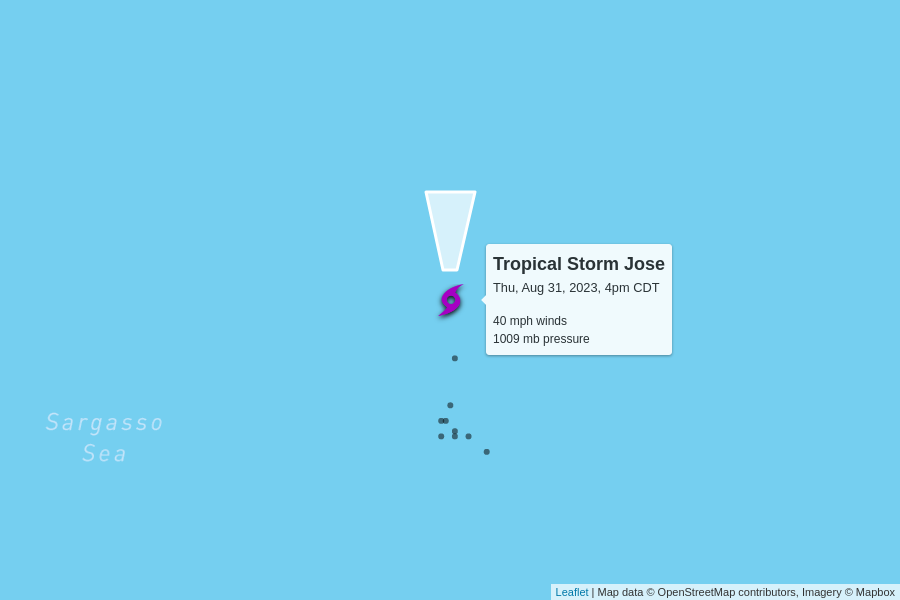
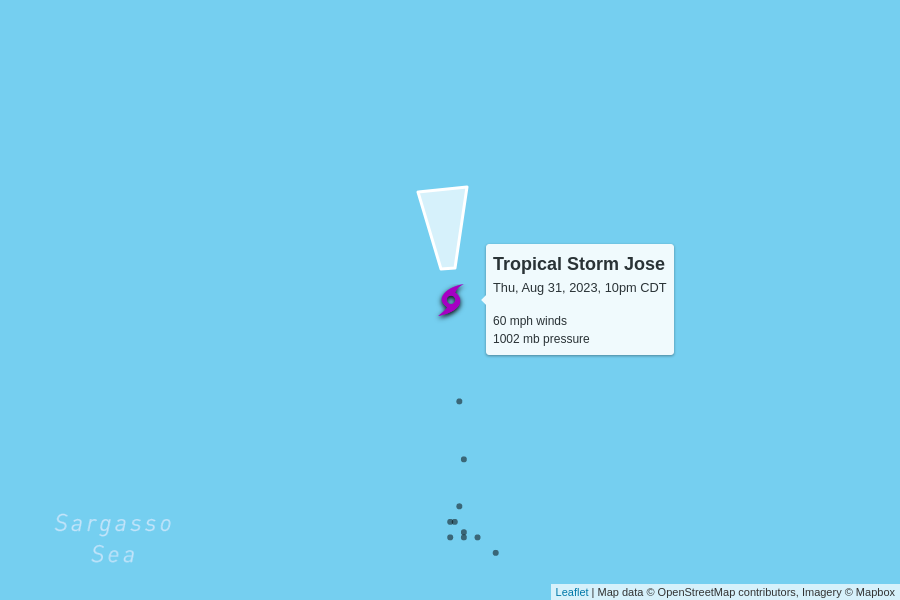
automatic update

diff --git a/docs/index.html b/docs/index.html
@@ -97,54 +97,10 @@
 
     <table>
       <tr>
-        <td colspan="6" class="storm category-0" >
-          <h2>
-            Post-tropical Cyclone Idalia
-            <p class="updated">last updated <span data-time>2023-09-01T00:00:00.000Z</span></p>
-          </h2>
-        </td>
-      </tr>
-      
-      <tr>
-        <th class="spacer"></th>
-        <th>wind speed</th>
-        <th>central pressure</th>
-        <th>movement</th>
-        <th>data (CSV)</th>
-        <th>National Hurricane Center</th>
-      </tr>
-      <tr>
-        <td class="spacer"></td>
-        <td>65 mph</td>
-        <td>994 mb</td>
-        <td>
-          21 mph to the east
-          <br/>
-          <span style="display: inline-block; font-size: 1.5em; transform: rotate(90deg);">↑</span>
-        </td>
-        <td><a href="https://raw.githubusercontent.com/mgwalker/atlantic-hurricanes/main/data/csv/AL102023.csv">AL102023.csv</a></td>
-        <td><a href="https://www.nhc.noaa.gov/archive/2023/IDALIA.shtml?">NHC advisories</a></td>
-      </tr>
-      <tr id="storm_AL102023" >
-        <td class="spacer">
-        <td colspan="5">
-          <figure>
-            <img src="AL102023.png">
-            <figcaption>
-              Map data &copy; <a href="https://www.openstreetmap.org/copyright">OpenStreetMap</a> contributors,
-              Imagery &copy; <a href="https://www.mapbox.com/">Mapbox</a> |
-              <a href="https://www.mapbox.com/map-feedback/" target="_blank">Improve this map</a>
-            </figcaption>
-          </figure>
-        </td>
-      </tr>
-      
-
-      <tr>
         <td colspan="6" class="storm category-1" >
           <h2>
             Hurricane Franklin - Category 1
-            <p class="updated">last updated <span data-time>2023-08-31T21:00:00.000Z</span></p>
+            <p class="updated">last updated <span data-time>2023-09-01T03:00:00.000Z</span></p>
           </h2>
         </td>
       </tr>
@@ -159,12 +115,12 @@
       </tr>
       <tr>
         <td class="spacer"></td>
-        <td>90 mph</td>
-        <td>970 mb</td>
+        <td>85 mph</td>
+        <td>979 mb</td>
         <td>
-          14 mph to the east-northeast
+          15 mph to the east-northeast
           <br/>
-          <span style="display: inline-block; font-size: 1.5em; transform: rotate(65deg);">↑</span>
+          <span style="display: inline-block; font-size: 1.5em; transform: rotate(60deg);">↑</span>
         </td>
         <td><a href="https://raw.githubusercontent.com/mgwalker/atlantic-hurricanes/main/data/csv/AL082023.csv">AL082023.csv</a></td>
         <td><a href="https://www.nhc.noaa.gov/archive/2023/FRANKLIN.shtml?">NHC advisories</a></td>
@@ -187,8 +143,8 @@
       <tr>
         <td colspan="6" class="storm category-0" >
           <h2>
-            Tropical Storm Jose
-            <p class="updated">last updated <span data-time>2023-08-31T21:00:00.000Z</span></p>
+            Post-tropical Cyclone Idalia
+            <p class="updated">last updated <span data-time>2023-09-01T03:00:00.000Z</span></p>
           </h2>
         </td>
       </tr>
@@ -203,12 +159,56 @@
       </tr>
       <tr>
         <td class="spacer"></td>
-        <td>40 mph</td>
-        <td>1009 mb</td>
+        <td>65 mph</td>
+        <td>996 mb</td>
         <td>
-          12 mph to the north
+          23 mph to the east
           <br/>
-          <span style="display: inline-block; font-size: 1.5em; transform: rotate(360deg);">↑</span>
+          <span style="display: inline-block; font-size: 1.5em; transform: rotate(95deg);">↑</span>
+        </td>
+        <td><a href="https://raw.githubusercontent.com/mgwalker/atlantic-hurricanes/main/data/csv/AL102023.csv">AL102023.csv</a></td>
+        <td><a href="https://www.nhc.noaa.gov/archive/2023/IDALIA.shtml?">NHC advisories</a></td>
+      </tr>
+      <tr id="storm_AL102023" >
+        <td class="spacer">
+        <td colspan="5">
+          <figure>
+            <img src="AL102023.png">
+            <figcaption>
+              Map data &copy; <a href="https://www.openstreetmap.org/copyright">OpenStreetMap</a> contributors,
+              Imagery &copy; <a href="https://www.mapbox.com/">Mapbox</a> |
+              <a href="https://www.mapbox.com/map-feedback/" target="_blank">Improve this map</a>
+            </figcaption>
+          </figure>
+        </td>
+      </tr>
+      
+
+      <tr>
+        <td colspan="6" class="storm category-0" >
+          <h2>
+            Tropical Storm Jose
+            <p class="updated">last updated <span data-time>2023-09-01T03:00:00.000Z</span></p>
+          </h2>
+        </td>
+      </tr>
+      
+      <tr>
+        <th class="spacer"></th>
+        <th>wind speed</th>
+        <th>central pressure</th>
+        <th>movement</th>
+        <th>data (CSV)</th>
+        <th>National Hurricane Center</th>
+      </tr>
+      <tr>
+        <td class="spacer"></td>
+        <td>60 mph</td>
+        <td>1002 mb</td>
+        <td>
+          13 mph to the north
+          <br/>
+          <span style="display: inline-block; font-size: 1.5em; transform: rotate(355deg);">↑</span>
         </td>
         <td><a href="https://raw.githubusercontent.com/mgwalker/atlantic-hurricanes/main/data/csv/AL112023.csv">AL112023.csv</a></td>
         <td><a href="https://www.nhc.noaa.gov/archive/2023/JOSE.shtml?">NHC advisories</a></td>
